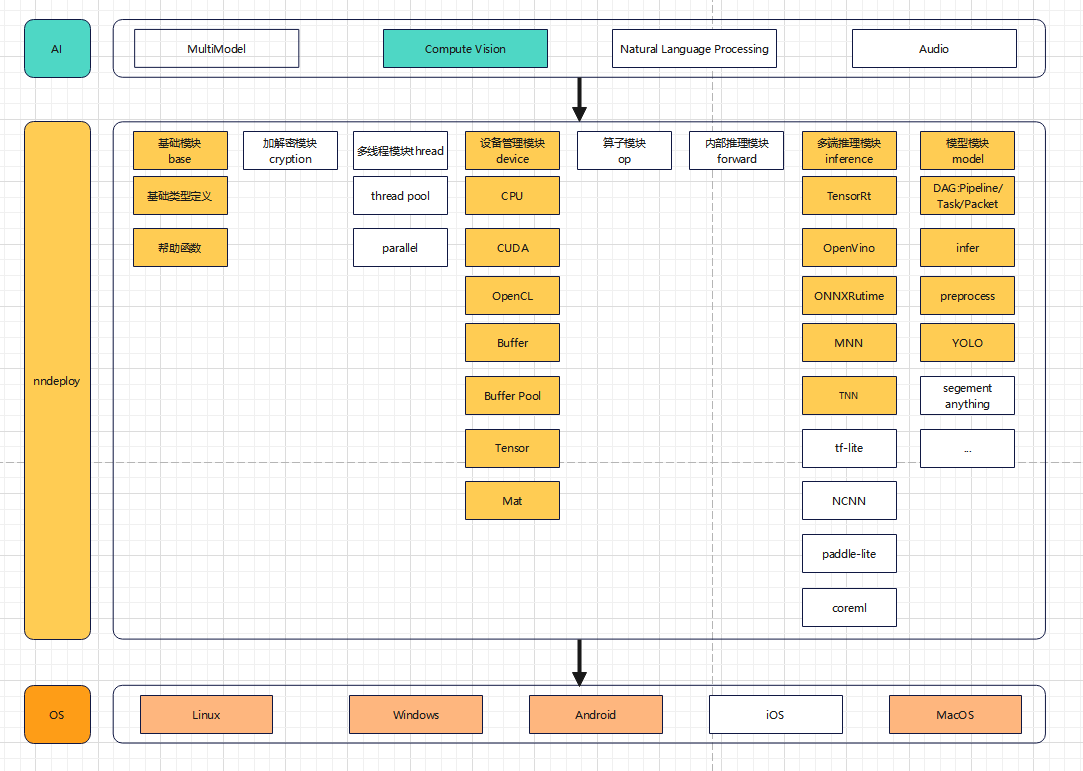
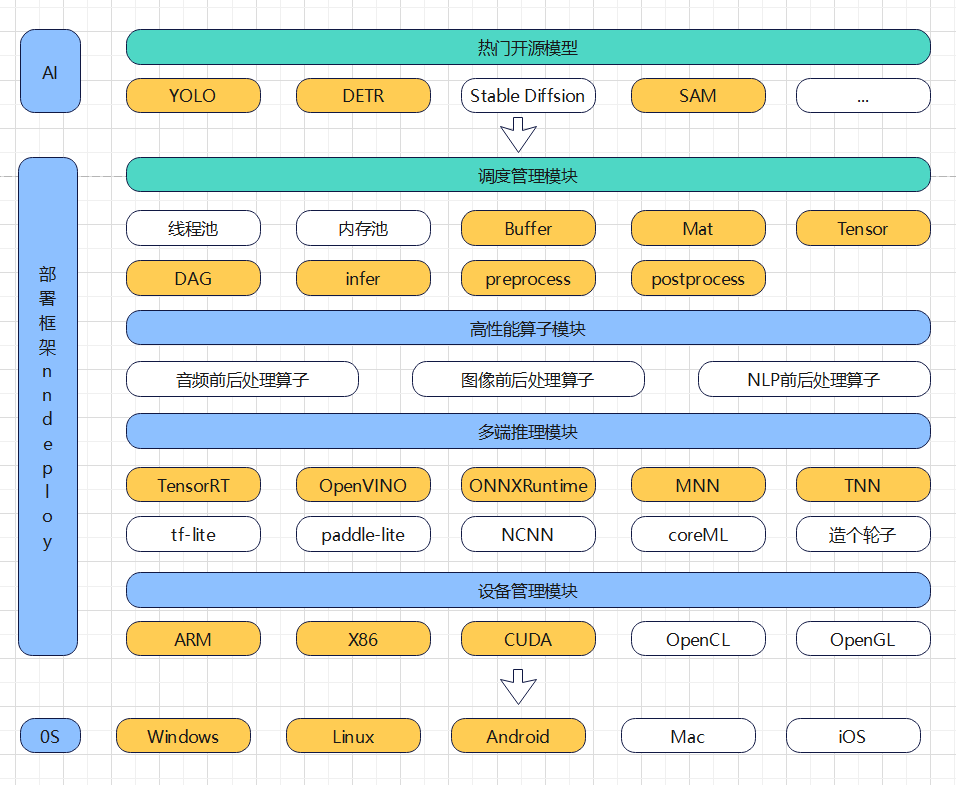
update: 完善nndeploy架构图

diff --git a/README.md b/README.md
@@ -1,12 +1,13 @@
 
-<img align="right" src="doc/image/Always.jpg" width="128px">
+<img align="right" src="doc/image/Always.jpg" width="200px">
 
 ## 介绍
 nndeploy是一款支持多平台、简单易用、高性能的机器学习部署框架，一套实现可在多端(云、边、端)完成模型的高性能部署。目前已完成YOLO系列、DETR、Segment Anything等模型的部署，后续会继续部署开源模型（如果你有需要部署的开源模型或者其他部署相关的问题，欢迎联系我呀）
 
 ## 架构简介
 ![架构简介](doc/image/nndeploy.png)
-注：未着色的为尚未实现
+
+``注：未着色的为尚未实现``
 
 ## 特性简介
 ### 支持多平台
